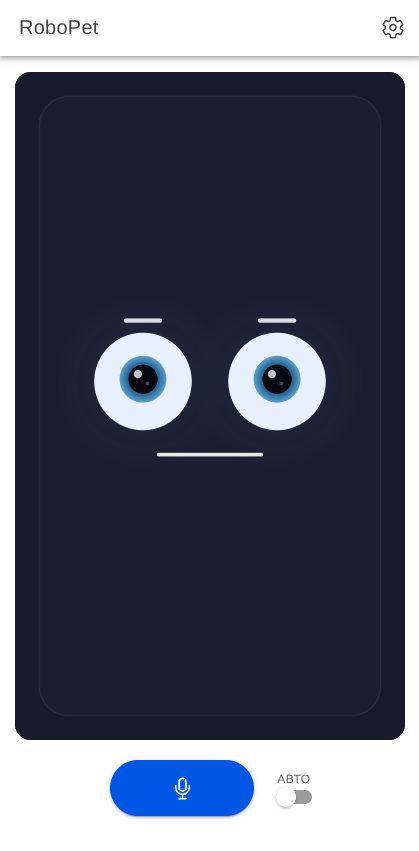
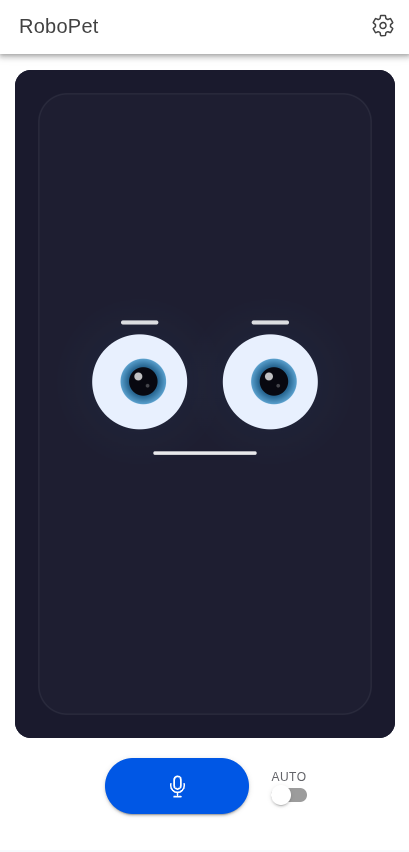
screenshots update, add translation

diff --git a/mobile/src/app/home/home.module.ts b/mobile/src/app/home/home.module.ts
@@ -2,6 +2,7 @@ import { NgModule } from '@angular/core';
 import { CommonModule } from '@angular/common';
 import { IonicModule } from '@ionic/angular';
 import { FormsModule } from '@angular/forms';
+import { TranslocoModule } from '@jsverse/transloco';
 import { HomePage } from './home.page';
 import { HomePageRoutingModule } from './home-routing.module';
 import { RobotFaceComponent } from '../components/robot-face/robot-face.component';
@@ -14,6 +15,7 @@ import { VoiceButtonComponent } from '../components/voice-button/voice-button.co
     FormsModule,
     IonicModule,
     HomePageRoutingModule,
+    TranslocoModule,
   ],
   declarations: [
     HomePage,

diff --git a/mobile/src/app/components/voice-button/voice-button.component.html b/mobile/src/app/components/voice-button/voice-button.component.html
@@ -24,7 +24,7 @@
   </ion-button>
 
   <div class="auto-toggle">
-    <span class="auto-label">Авто</span>
+    <span class="auto-label">{{ 'voice-button.auto' | transloco }}</span>
     <ion-toggle
       [(ngModel)]="autoMode"
       (ionChange)="onAutoModeChange()">
